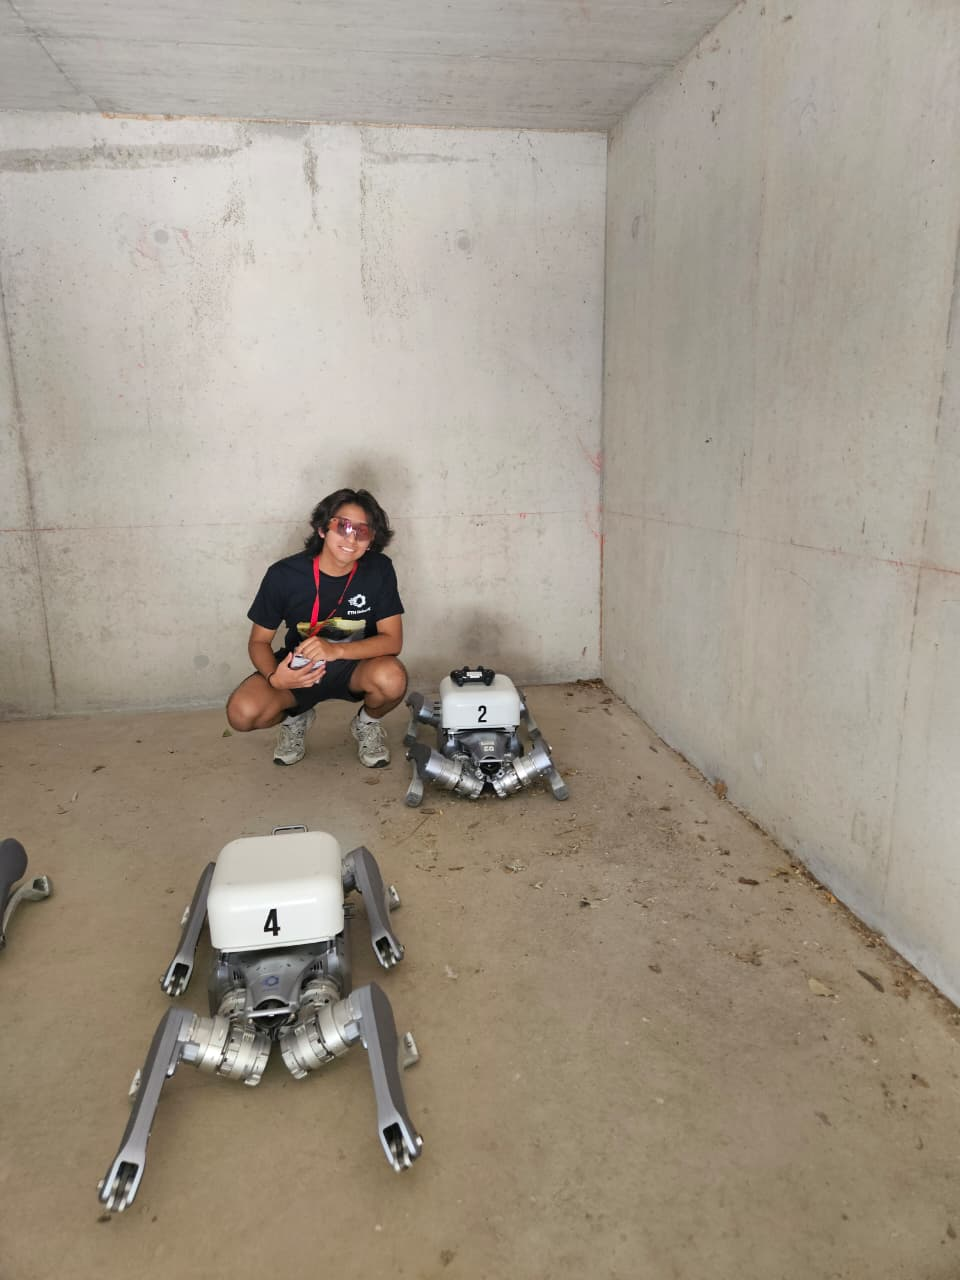
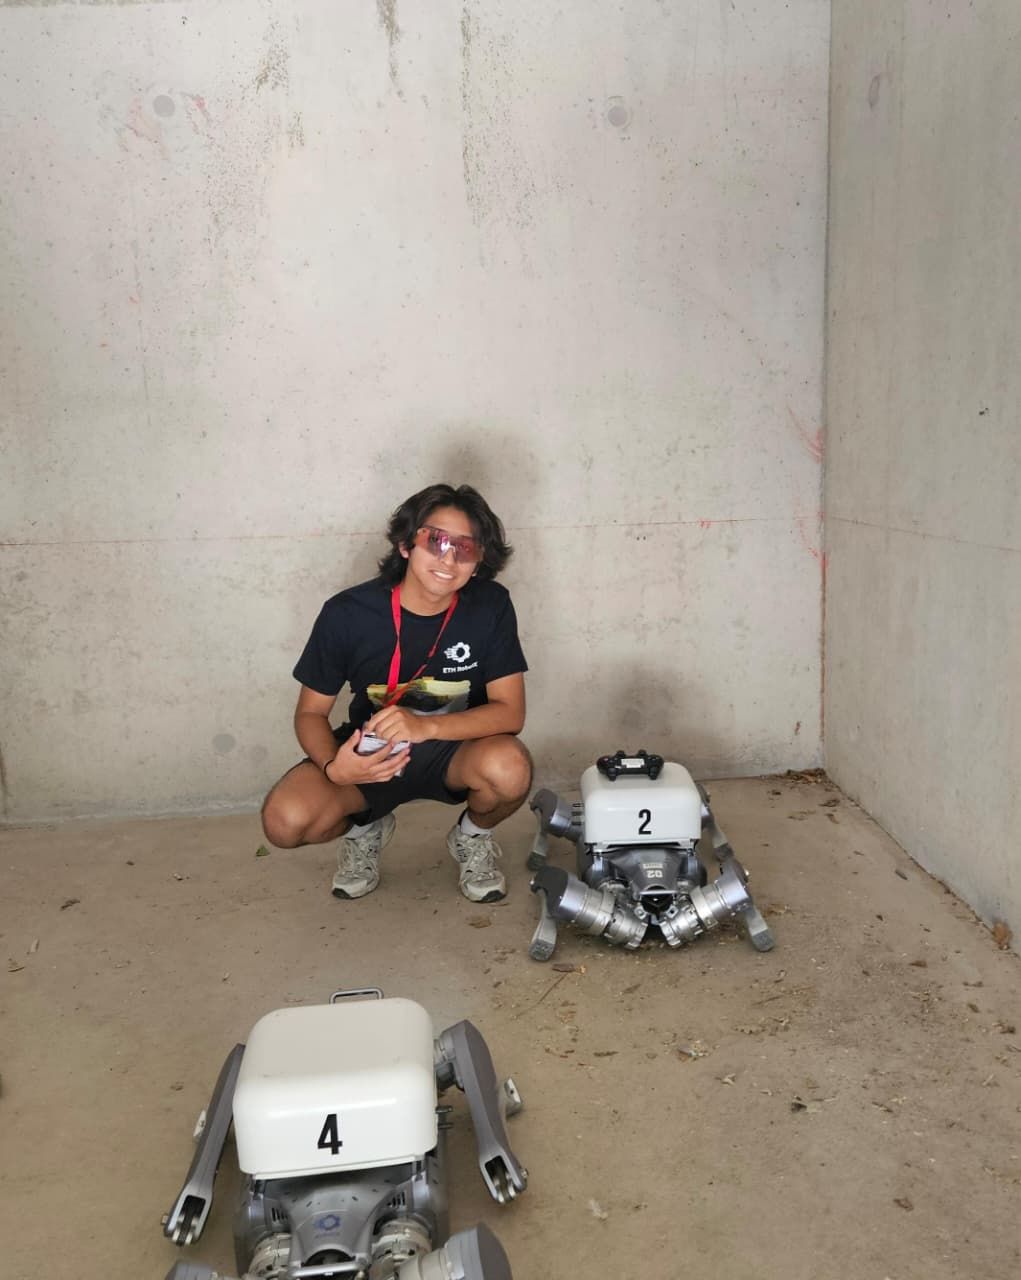
Unlink Smart City Challenge award from FreeWheels; swap profile photo; drop Unsplash attribution

diff --git a/_pages/about.md b/_pages/about.md
@@ -28,7 +28,7 @@ latest_posts:
 
 I'm a Mechatronics Engineering student at [UTEC](https://www.utec.edu.pe/) (Lima, Perú), currently a **Robotics Student Fellow** at the [Robotic Systems Lab](https://rsl.ethz.ch/), ETH Zürich, doing legged robotics research with the RSL team.
 
-My work sits at the intersection of **legged robotics, sim-to-real reinforcement learning, and low-cost hardware**. Before ETH, I led [FreeWheels](/projects/), an intuitive-control wheelchair for athletes that won 2nd place at IROS 2025 (China) and the Smart City Challenge (UTEC Ventures), and I currently lead the **LÁK Biped** project at IEEE Robotics & Automation Society UTEC, a bipedal robot inspired by Disney's BDX robot.
+My work sits at the intersection of **legged robotics, sim-to-real reinforcement learning, and low-cost hardware**. Before ETH, I led [FreeWheels](/projects/), an intuitive-control wheelchair for athletes that won 2nd place at IROS 2025 (China), and I currently lead the **LÁK Biped** project at IEEE Robotics & Automation Society UTEC, a bipedal robot inspired by Disney's BDX robot.
 
 I care about making legged robotics research more accessible from Latin America — building capable robots on modest budgets, and closing the sim-to-real gap so research done on cheap hardware still transfers. That's the direction I want my graduate research to take.
 

diff --git a/_projects/2_freewheels.md b/_projects/2_freewheels.md
@@ -10,4 +10,3 @@ category: research
 **FreeWheels** is an intuitive-control wheelchair designed for athletes, developed at UTEC.
 
 - Awarded **2nd place at IROS 2025** (Volting Cup), presented in China — one of the world's most important robotics conferences.
-- Winner of the **Smart City Challenge**, awarded by Darat Latam and UTEC Ventures for its potential impact on smart urban environments.

diff --git a/_news/2025-04-01-smart-city.md b/_news/2025-04-01-smart-city.md
@@ -4,4 +4,4 @@ date: 2025-04-01 09:00:00-0000
 inline: true
 related_posts: false
 ---
-**FreeWheels** won the Smart City Challenge, awarded by Darat Latam and UTEC Ventures.
+Won the **Smart City Challenge**, awarded by Darat Latam and UTEC Ventures.
